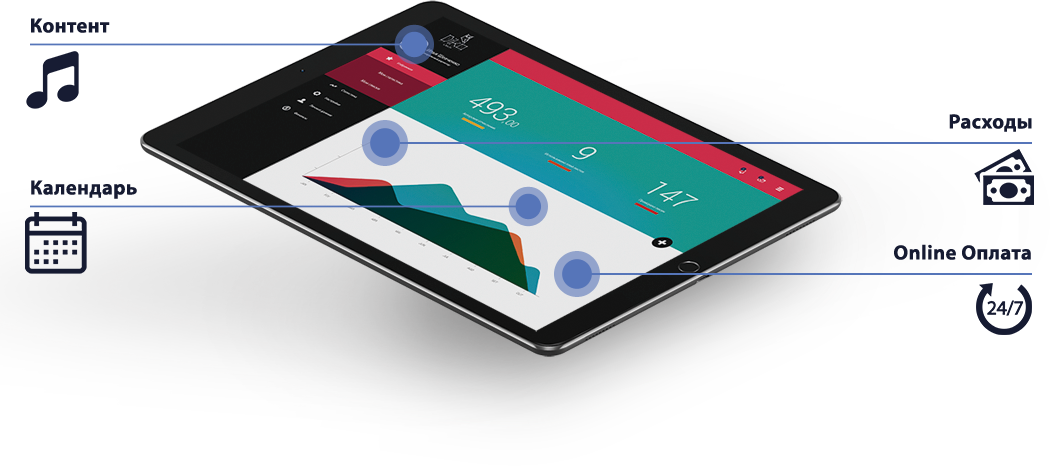
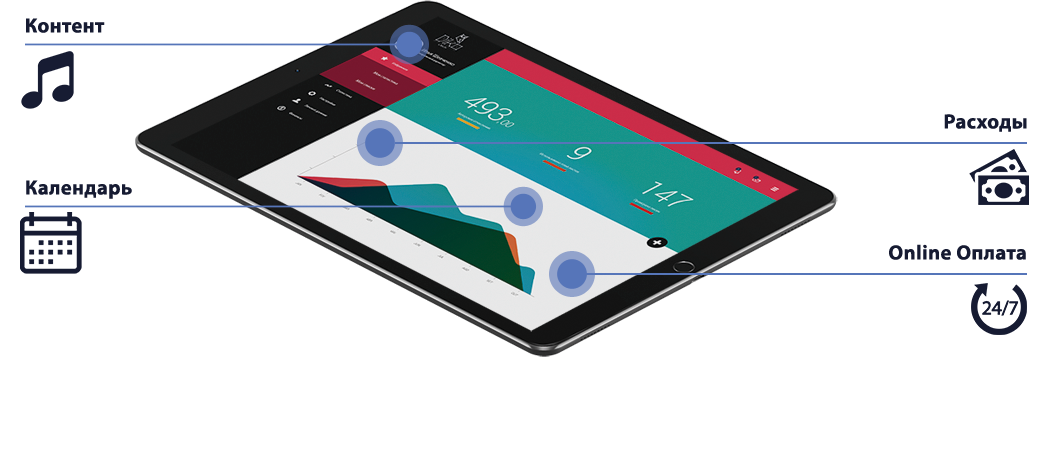
new main from psd

diff --git a/index.html b/index.html
@@ -163,10 +163,12 @@
           <p>
             Программа покажет полную статистику заведения. Гибкость позволит найти точную информацию и в любой промежуток времени. Оплачивать можно не выходя из приложения.
           </p>
+          
         </div>
         <div class="iphone-showcase wow fadeInLeft">
           <div class="device">
-            <img src="images/ipad-diko.png" alt="">
+            <img src="images/ipad-diko.png" style="max-width: 100%;
+            filter: drop-shadow(7px 22px 30px #000);" alt="">
           </div>
         </div><!-- //iPhone Showcase -->
 
@@ -191,12 +193,15 @@
         <hr>
         <p>
           Программный контроль <b>DikoScanner</b> всегда покажет ошибки и работоспособность устройства. Тем самым обеспечит <b>100%</b> контроль авторского права даже у злобных нарушителей. Обмануть систему не возможно.
-       </p>
-     </div><!-- //iPhone Showcase -->
+        </p>
+        <p class="pointed">
+          Технология Blockchain сразу покажет вышедшее из работы устройства, тем самым по мимо прозрачности технология обеспечит безопасность.
+        </p>
+      </div><!-- //iPhone Showcase -->
 
 
-   </div>
- </div>
+    </div>
+  </div>
 </section><!-- //iPhone Feature -->
 
 <section id="customers">

diff --git a/css/style.css b/css/style.css
@@ -546,20 +546,20 @@ input[type="email"]:focus {
   transition: .2s;
 }
 .society-link:hover, .society-link-active {
-   opacity: .6;
-  /*filter: drop-shadow(0px 0px 4px #000);*/
-  transition: .2s;
+ opacity: .6;
+ /*filter: drop-shadow(0px 0px 4px #000);*/
+ transition: .2s;
 }
 .author-link:hover, .author-link-active {
-   opacity: .6;
-  /*filter: drop-shadow(0px 0px 4px #000);*/
-  transition: .2s;
+ opacity: .6;
+ /*filter: drop-shadow(0px 0px 4px #000);*/
+ transition: .2s;
 
 }
 .business-link:hover, .business-link-active {
-   opacity: .6;
-  /*filter: drop-shadow(0px 0px 4px #000);*/
-  transition: .2s;
+ opacity: .6;
+ /*filter: drop-shadow(0px 0px 4px #000);*/
+ transition: .2s;
 }
 .container {
   width: 90%;
@@ -971,6 +971,20 @@ input[type="email"]:focus {
 }
 #control h2 {
   font-size: 48px;
+}
+#control .pointed {
+  color: #5a5a5a;
+  font-weight: 900;
+  margin: 0 0 0 5%;
+}
+#control .pointed:before {
+  content: "";
+  display: block;
+  position: absolute;
+  background: url(../images/point.png) no-repeat;
+  width: 20px;
+  height: 20px;
+  left: 20px;
 }
 /*****************************************************
 *** Plan ***
